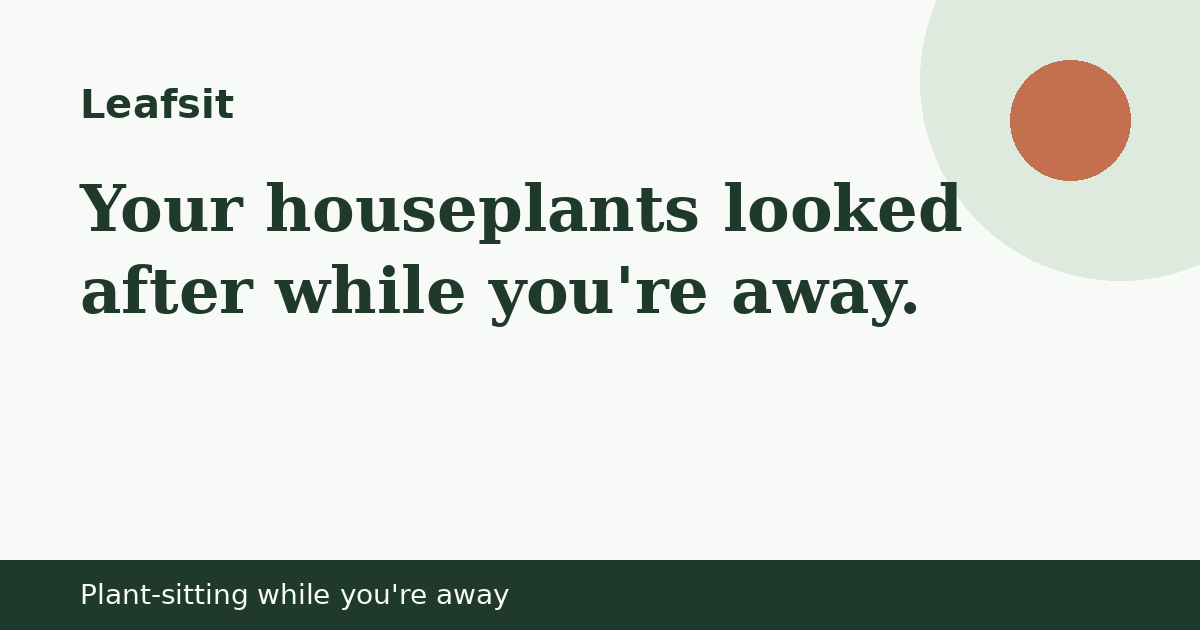
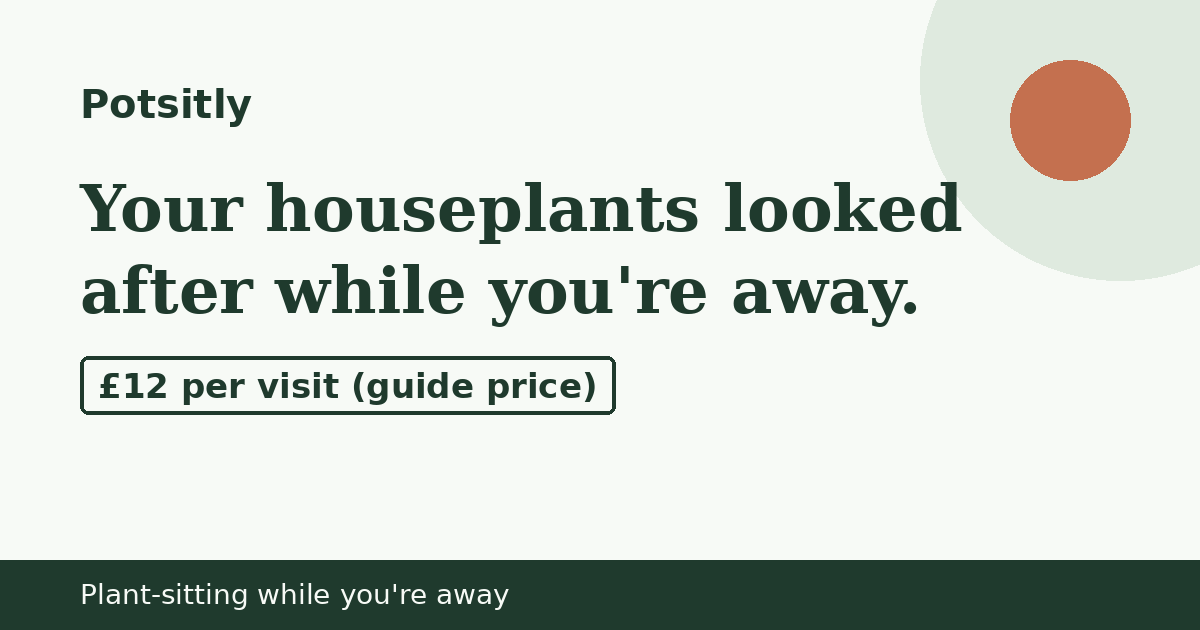
Publish site 2026-10-21 08:28 BST

Changed region(s): [[0.0617, 0.5429, 0.5242, 0.6635], [0.0617, 0.1206, 0.2158, 0.2111]]

diff --git a/index.html b/index.html
@@ -3,14 +3,14 @@
 <head>
 <meta charset="utf-8">
 <meta name="viewport" content="width=device-width, initial-scale=1">
-<meta http-equiv="Content-Security-Policy" content="default-src 'self'; img-src 'self' data: https://localreplyloop.goatcounter.com; style-src 'self'; script-src 'self'; font-src 'self'; connect-src 'self' https://formsubmit.co; form-action 'self'; base-uri 'self'; object-src 'none'">
+<meta http-equiv="Content-Security-Policy" content="default-src 'self'; img-src 'self' data: https://localreplyloop.goatcounter.com; style-src 'self'; script-src 'self'; font-src 'self'; connect-src 'self'; form-action 'self'; base-uri 'self'; object-src 'none'">
 <meta name="referrer" content="strict-origin-when-cross-origin">
-<title>Leafsit: Your houseplants looked after while you&#x27;re away</title>
+<title>Potsitly: Your houseplants looked after while you&#x27;re away</title>
 <meta name="description" content="Home visits to water and care for your houseplants while you&#x27;re away, with a photo update after each visit.">
 <meta name="theme-color" content="#1F3A2D">
-<meta property="og:type" content="website"><meta property="og:title" content="Leafsit: Your houseplants looked after while you&#x27;re away"><meta property="og:description" content="Home visits to water and care for your houseplants while you&#x27;re away, with a photo update after each visit.">
+<meta property="og:type" content="website"><meta property="og:title" content="Potsitly: Your houseplants looked after while you&#x27;re away"><meta property="og:description" content="Home visits to water and care for your houseplants while you&#x27;re away, with a photo update after each visit.">
 <meta property="og:image" content="https://evanturner557-del.github.io/leafsit/assets/og.png"><meta property="og:image:width" content="1200"><meta property="og:image:height" content="630">
-<meta property="og:image:alt" content="Leafsit: Your houseplants looked after while you&#x27;re away."><meta property="og:site_name" content="Leafsit"><meta property="og:locale" content="en_GB">
+<meta property="og:image:alt" content="Potsitly: Your houseplants looked after while you&#x27;re away."><meta property="og:site_name" content="Potsitly"><meta property="og:locale" content="en_GB">
 <meta property="og:url" content="https://evanturner557-del.github.io/leafsit/"><meta name="twitter:card" content="summary_large_image">
 <link rel="canonical" href="https://evanturner557-del.github.io/leafsit/">
 <link rel="icon" href="assets/favicon.svg" type="image/svg+xml">
@@ -21,22 +21,15 @@
 </head>
 <body>
 <a class="skip" href="#main">Skip to content</a>
-<header><div class="wrap top"><a class="brand" href="./"><svg viewBox="0 0 64 64" aria-hidden="true" width="34" height="34"><circle cx="32" cy="32" r="32" fill="#1F3A2D"/><text x="32" y="43" text-anchor="middle" font-family="Georgia, serif" font-weight="700" font-size="30" fill="#F7FAF6">L</text><circle cx="50" cy="50" r="6" fill="#C4704F"/></svg>Leafsit</a><nav aria-label="Primary"><a href="#how">How it works</a><a href="#faq">Questions</a><a href="#contact">Contact</a></nav></div></header><section class="hero"><div class="wrap"><div class="inner"><div><span class="draft">Draft: not yet available. Enquiries welcome.</span><br><span class="eyebrow">Service · draft offer · Plant-sitting while you&#x27;re away</span><h1>Your houseplants looked after while you&#x27;re away.</h1><p class="lede">Leafsit visits to water, mist and check your plants while you&#x27;re on holiday, following your care notes, and sends a photo after each visit. Like pet-sitting, but for plants.</p><div class="ctas"><a class="btn" href="#contact" data-cta="hero">Make an enquiry</a><a class="btn ghost" href="#faq" data-cta="hero-secondary">Questions</a></div></div><div class="art"><svg viewBox="0 0 400 400" role="img" aria-label="Decorative pattern" class="motif" preserveAspectRatio="xMidYMid slice"><rect x="0" y="40" width="30" height="260" rx="15" fill="#F7FAF6"/><rect x="46" y="100" width="30" height="280" rx="15" fill="#1F3A2D"/><rect x="92" y="70" width="30" height="240" rx="15" fill="#C4704F"/><rect x="138" y="40" width="30" height="220" rx="15" fill="#1F3A2D"/><rect x="184" y="40" width="30" height="260" rx="15" fill="#F7FAF6"/><rect x="230" y="40" width="30" height="220" rx="15" fill="#1F3A2D"/><rect x="276" y="100" width="30" height="260" rx="15" fill="#C4704F"/><rect x="322" y="130" width="30" height="220" rx="15" fill="#1F3A2D"/><rect x="368" y="70" width="30" height="260" rx="15" fill="#F7FAF6"/></svg></div></div></div></section>
+<header><div class="wrap top"><a class="brand" href="./"><svg viewBox="0 0 64 64" aria-hidden="true" width="34" height="34"><circle cx="32" cy="32" r="32" fill="#1F3A2D"/><text x="32" y="43" text-anchor="middle" font-family="Georgia, serif" font-weight="700" font-size="30" fill="#F7FAF6">P</text><circle cx="50" cy="50" r="6" fill="#C4704F"/></svg>Potsitly</a><nav aria-label="Primary"><a href="#how">How it works</a><a href="#faq">Questions</a><a href="#contact">Contact</a></nav></div></header>
 <main id="main">
+<section class="hero"><div class="wrap"><div class="inner"><div><span class="draft">Draft: not yet available. Enquiries welcome.</span><br><span class="eyebrow">Service · draft offer · Plant-sitting while you&#x27;re away</span><h1>Your houseplants looked after while you&#x27;re away.</h1><p class="lede">Potsitly visits to water, mist and check your plants while you&#x27;re on holiday, following your care notes, and sends a photo after each visit. Like pet-sitting, but for plants.</p><div class="ctas"><a class="btn" href="#contact" data-cta="hero">Make an enquiry</a><a class="btn ghost" href="#faq" data-cta="hero-secondary">Questions</a></div></div><div class="art"><svg viewBox="0 0 400 400" aria-hidden="true" focusable="false" class="motif"><path d="M60 260 h110 l-14 100 h-82z" fill="#C4704F"/><path d="M115 260 c-60 -40 -40 -110 0 -150 c40 40 60 110 0 150z" fill="#1F3A2D"/><path d="M115 250 c30 -50 70 -40 80 -40 c-10 30 -40 60 -80 40z" fill="#F7FAF6"/><path d="M210 280 h80 l10 80 h-100z" fill="#1F3A2D"/><path d="M290 300 l50 -30" fill="none" stroke="#1F3A2D" stroke-width="12" stroke-linecap="round" stroke-linejoin="round"/><path d="M220 290 c-30 -10 -30 -50 0 -50" fill="none" stroke="#1F3A2D" stroke-width="8" stroke-linecap="round" stroke-linejoin="round"/><rect x="250" y="170" width="120" height="90" rx="12" fill="#F7FAF6"/><rect x="285" y="150" width="50" height="26" rx="8" fill="#F7FAF6"/><rect x="250" y="205" width="120" height="10" fill="#1F3A2D"/></svg></div></div></div></section>
 <section class="tint" id="how"><div class="wrap"><span class="eyebrow">How it works</span><h2>Home visits to water and care for your houseplants while you&#x27;re away, with a photo update after each visit.</h2><div class="steps"><div class="step"><h3>Send your dates</h3><p>And roughly how many plants.</p></div><div class="step"><h3>Care notes</h3><p>Tell us which plants need what.</p></div><div class="step"><h3>Photo after each visit</h3><p>So you know they&#x27;re fine.</p></div></div></div></section>
 <section><div class="wrap"><span class="eyebrow">Who it is for</span><h2>For houseplant owners going on holiday.</h2><div class="points"><div class="point"><h3>Follows your notes</h3><p>Your watering routine, not ours.</p></div><div class="point"><h3>Photos each visit</h3><p>You can see how they&#x27;re doing.</p></div><div class="point"><h3>Key handling agreed</h3><p>We agree key drop-off and return with you.</p></div></div></div></section>
 <section class="tint" id="price"><div class="wrap"><span class="eyebrow">Planned price</span><div class="pricebox"><p class="price">£12 per visit (guide price)</p><p>This is a draft offer and is not taking orders yet. Nothing can be bought on this website.</p></div></div></section>
-<section id="faq"><div class="wrap"><span class="eyebrow">Questions</span><h2>Common questions</h2><details><summary>How often do you visit?</summary><p>Usually every three or four days. You choose.</p></details><details><summary>Do you treat pests?</summary><p>We&#x27;ll tell you if we spot any. We don&#x27;t apply treatments without asking.</p></details><details><summary>Is this available now?</summary><p>Enquire with your dates and postcode and we&#x27;ll confirm.</p></details><p class="fine" style="margin-top:18px">Leafsit cares for houseplants. We can&#x27;t guarantee the health of plants that were already unwell.</p></div></section>
-<section class="tint" id="contact"><div class="wrap contact-grid"><div><span class="eyebrow">Contact</span><h2>Make an enquiry</h2><p>Leafsit is new and run by one person. Every message is read and answered by email, usually within two working days.</p><p>Email: <a href="mailto:localreply+leafsit@agentmail.to">localreply+leafsit@agentmail.to</a></p></div><form class="form" data-contact data-formsubmit="localreply+leafsit@agentmail.to" data-email="localreply+leafsit@agentmail.to" data-subject="Leafsit enquiry" novalidate>
-<div><label for="f-name">Your name</label><input id="f-name" name="name" autocomplete="name" required></div>
-<div><label for="f-email">Email</label><input id="f-email" name="email" type="email" autocomplete="email" required></div>
-<div><label for="f-postcode">Postcode or town</label><input id="f-postcode" name="postcode" autocomplete="postal-code"></div><div><label for="f-plan">About</label><select id="f-plan" name="plan"><option value="Holiday visits">Holiday visits</option><option value="Regular care">Regular care</option><option value="A question">A question</option></select></div>
-<div><label for="f-message">Message</label><textarea id="f-message" name="message"></textarea></div>
-<p class="hint">Your message goes to our inbox through FormSubmit (formsubmit.co), our form-delivery provider. If that fails, your own email app opens instead. See our <a href="privacy.html">privacy notice</a>.</p>
-<button class="btn" type="submit">Make an enquiry</button>
-<p class="form-status" role="status" aria-live="polite"></p>
-</form></div></section>
-</main><footer><div class="wrap"><p>Operated by a UK sole trader trading as Leafsit. Contact: localreply+leafsit@agentmail.to. Postal address available on written request.</p>
+<section id="faq"><div class="wrap"><span class="eyebrow">Questions</span><h2>Common questions</h2><details><summary>How often do you visit?</summary><p>Usually every three or four days. You choose.</p></details><details><summary>Do you treat pests?</summary><p>We&#x27;ll tell you if we spot any. We don&#x27;t apply treatments without asking.</p></details><details><summary>Is this available now?</summary><p>Enquire with your dates and postcode. Nothing is confirmed yet.</p></details><p class="fine" style="margin-top:18px">Potsitly cares for houseplants. We can&#x27;t guarantee the health of plants that were already unwell.</p></div></section>
+<section class="tint" id="contact"><div class="wrap contact-grid"><div><span class="eyebrow">Contact</span><h2>Make an enquiry</h2><p>Potsitly is new and run by one person. Messages go to our inbox. We can’t promise a reply or a timeframe yet.</p><p>Email: <a href="mailto:localreply+leafsit@agentmail.to">localreply+leafsit@agentmail.to</a></p></div><div class="form contact-mail"><p><a class="btn" href="mailto:localreply+leafsit@agentmail.to?subject=%5BPotsitly%5D%20Enquiry" data-cta="enquire">Email Potsitly</a></p><p class="hint">This opens your own email app. Nothing is sent through this website. See our <a href="privacy.html">privacy notice</a>.</p></div></div></section>
+</main><footer><div class="wrap"><p>Operated by a UK sole trader trading as Potsitly. Contact: localreply+leafsit@agentmail.to. Postal address available on written request.</p>
 <p><a href="privacy.html">Privacy</a><a href="terms.html">Terms</a><a href="./#contact">Contact</a></p>
-<p class="fine">Leafsit cares for houseplants. We can&#x27;t guarantee the health of plants that were already unwell.</p></div></footer>
+<p class="fine">Potsitly cares for houseplants. We can&#x27;t guarantee the health of plants that were already unwell.</p></div></footer>
 </body></html>

diff --git a/privacy.html b/privacy.html
@@ -3,14 +3,14 @@
 <head>
 <meta charset="utf-8">
 <meta name="viewport" content="width=device-width, initial-scale=1">
-<meta http-equiv="Content-Security-Policy" content="default-src 'self'; img-src 'self' data: https://localreplyloop.goatcounter.com; style-src 'self'; script-src 'self'; font-src 'self'; connect-src 'self' https://formsubmit.co; form-action 'self'; base-uri 'self'; object-src 'none'">
+<meta http-equiv="Content-Security-Policy" content="default-src 'self'; img-src 'self' data: https://localreplyloop.goatcounter.com; style-src 'self'; script-src 'self'; font-src 'self'; connect-src 'self'; form-action 'self'; base-uri 'self'; object-src 'none'">
 <meta name="referrer" content="strict-origin-when-cross-origin">
-<title>Privacy notice | Leafsit</title>
-<meta name="description" content="Privacy notice for Leafsit.">
+<title>Privacy notice | Potsitly</title>
+<meta name="description" content="Privacy notice for Potsitly.">
 <meta name="theme-color" content="#1F3A2D">
-<meta property="og:type" content="website"><meta property="og:title" content="Privacy notice | Leafsit"><meta property="og:description" content="Privacy notice for Leafsit.">
+<meta property="og:type" content="website"><meta property="og:title" content="Privacy notice | Potsitly"><meta property="og:description" content="Privacy notice for Potsitly.">
 <meta property="og:image" content="https://evanturner557-del.github.io/leafsit/assets/og.png"><meta property="og:image:width" content="1200"><meta property="og:image:height" content="630">
-<meta property="og:image:alt" content="Leafsit: Your houseplants looked after while you&#x27;re away."><meta property="og:site_name" content="Leafsit"><meta property="og:locale" content="en_GB">
+<meta property="og:image:alt" content="Potsitly: Your houseplants looked after while you&#x27;re away."><meta property="og:site_name" content="Potsitly"><meta property="og:locale" content="en_GB">
 <meta property="og:url" content="https://evanturner557-del.github.io/leafsit/privacy.html"><meta name="twitter:card" content="summary_large_image">
 <link rel="canonical" href="https://evanturner557-del.github.io/leafsit/privacy.html">
 <link rel="icon" href="assets/favicon.svg" type="image/svg+xml">
@@ -21,14 +21,14 @@
 </head>
 <body>
 <a class="skip" href="#main">Skip to content</a>
-<header><div class="wrap top"><a class="brand" href="./"><svg viewBox="0 0 64 64" aria-hidden="true" width="34" height="34"><circle cx="32" cy="32" r="32" fill="#1F3A2D"/><text x="32" y="43" text-anchor="middle" font-family="Georgia, serif" font-weight="700" font-size="30" fill="#F7FAF6">L</text><circle cx="50" cy="50" r="6" fill="#C4704F"/></svg>Leafsit</a><nav aria-label="Primary"><a href="#how">How it works</a><a href="#faq">Questions</a><a href="#contact">Contact</a></nav></div></header><main id="main"><section><div class="wrap legal"><h1>Privacy notice</h1><p class="fine">Last updated 19 October 2026</p>
-<p><span>Operated by a UK sole trader trading as Leafsit. Contact: localreply+leafsit@agentmail.to. Postal address available on written request.</span> We are the controller for the personal data described here. For anything in this notice, email <a href="mailto:localreply+leafsit@agentmail.to">localreply+leafsit@agentmail.to</a> with “Leafsit” in the subject line.</p>
-<h2>What we collect</h2><p>If you use the form or email us, we receive your name, email address, anything you write in your message and, if you give it, your postcode or town. We use it only to reply to you and, if you ask for it, to deal with your enquiry.</p>
+<header><div class="wrap top"><a class="brand" href="./"><svg viewBox="0 0 64 64" aria-hidden="true" width="34" height="34"><circle cx="32" cy="32" r="32" fill="#1F3A2D"/><text x="32" y="43" text-anchor="middle" font-family="Georgia, serif" font-weight="700" font-size="30" fill="#F7FAF6">P</text><circle cx="50" cy="50" r="6" fill="#C4704F"/></svg>Potsitly</a><nav aria-label="Primary"><a href="#how">How it works</a><a href="#faq">Questions</a><a href="#contact">Contact</a></nav></div></header><main id="main"><section><div class="wrap legal"><h1>Privacy notice</h1><p class="fine">Last updated 20 October 2026</p>
+<p><span>Operated by a UK sole trader trading as Potsitly. Contact: localreply+leafsit@agentmail.to. Postal address available on written request.</span> We are the controller for the personal data described here. For anything in this notice, email <a href="mailto:localreply+leafsit@agentmail.to">localreply+leafsit@agentmail.to</a> with “Potsitly” in the subject line.</p>
+<h2>What we collect</h2><p>If you email us, we receive your name, email address, anything you write in your message and, if you give it, your postcode or town. We use it only to reply to you and, if you ask for it, to deal with your enquiry.</p>
 <h2>Lawful basis</h2><p>Replying to an enquiry you send us is in our legitimate interests, or steps taken at your request before any agreement (UK GDPR Article 6(1)(f) and 6(1)(b)).</p>
-<h2>Who processes it for us</h2><p>FormSubmit (formsubmit.co) delivers form messages to our inbox. AgentMail (agentmail.to) hosts the inbox. GitHub Pages hosts this website and may log technical data such as IP addresses for security. Some of these providers process data outside the UK under their own safeguards.</p>
+<h2>Who processes it for us</h2><p>AgentMail (agentmail.to) hosts our inbox. GitHub Pages hosts this website and may log technical data such as IP addresses for security. Some of these providers process data outside the UK under their own safeguards.</p>
 <h2>Cookies and analytics</h2><p>We set no cookies. We count page views with GoatCounter, which records the page, referrer and screen size but no cookies and no personal profile. It does not run if your browser sends Do Not Track or Global Privacy Control.</p>
-<h2>How long we keep it</h2><p>We keep enquiry emails for up to 12 months after our last contact, unless you become a customer, in which case we keep records as the law requires.</p>
-<h2>Your rights</h2><p>You can ask for a copy of your data, ask us to correct or delete it, or object to how we use it, by emailing <a href="mailto:localreply+leafsit@agentmail.to">localreply+leafsit@agentmail.to</a>. You can complain to the Information Commissioner's Office (ico.org.uk).</p></div></section></main><footer><div class="wrap"><p>Operated by a UK sole trader trading as Leafsit. Contact: localreply+leafsit@agentmail.to. Postal address available on written request.</p>
+<h2>How long we keep it</h2><p>We delete enquiry and order data 30 days after our last contact or after delivery. We keep only the basic order record that tax law requires.</p>
+<h2>Your rights</h2><p>You can ask for a copy of your data, ask us to correct or delete it, or object to how we use it, by emailing <a href="mailto:localreply+leafsit@agentmail.to">localreply+leafsit@agentmail.to</a>. You can complain to the Information Commissioner's Office (ico.org.uk).</p></div></section></main><footer><div class="wrap"><p>Operated by a UK sole trader trading as Potsitly. Contact: localreply+leafsit@agentmail.to. Postal address available on written request.</p>
 <p><a href="privacy.html">Privacy</a><a href="terms.html">Terms</a><a href="./#contact">Contact</a></p>
-<p class="fine">Leafsit cares for houseplants. We can&#x27;t guarantee the health of plants that were already unwell.</p></div></footer>
+<p class="fine">Potsitly cares for houseplants. We can&#x27;t guarantee the health of plants that were already unwell.</p></div></footer>
 </body></html>

diff --git a/terms.html b/terms.html
@@ -3,14 +3,14 @@
 <head>
 <meta charset="utf-8">
 <meta name="viewport" content="width=device-width, initial-scale=1">
-<meta http-equiv="Content-Security-Policy" content="default-src 'self'; img-src 'self' data: https://localreplyloop.goatcounter.com; style-src 'self'; script-src 'self'; font-src 'self'; connect-src 'self' https://formsubmit.co; form-action 'self'; base-uri 'self'; object-src 'none'">
+<meta http-equiv="Content-Security-Policy" content="default-src 'self'; img-src 'self' data: https://localreplyloop.goatcounter.com; style-src 'self'; script-src 'self'; font-src 'self'; connect-src 'self'; form-action 'self'; base-uri 'self'; object-src 'none'">
 <meta name="referrer" content="strict-origin-when-cross-origin">
-<title>Terms of use | Leafsit</title>
-<meta name="description" content="Terms of use for Leafsit.">
+<title>Terms of use | Potsitly</title>
+<meta name="description" content="Terms of use for Potsitly.">
 <meta name="theme-color" content="#1F3A2D">
-<meta property="og:type" content="website"><meta property="og:title" content="Terms of use | Leafsit"><meta property="og:description" content="Terms of use for Leafsit.">
+<meta property="og:type" content="website"><meta property="og:title" content="Terms of use | Potsitly"><meta property="og:description" content="Terms of use for Potsitly.">
 <meta property="og:image" content="https://evanturner557-del.github.io/leafsit/assets/og.png"><meta property="og:image:width" content="1200"><meta property="og:image:height" content="630">
-<meta property="og:image:alt" content="Leafsit: Your houseplants looked after while you&#x27;re away."><meta property="og:site_name" content="Leafsit"><meta property="og:locale" content="en_GB">
+<meta property="og:image:alt" content="Potsitly: Your houseplants looked after while you&#x27;re away."><meta property="og:site_name" content="Potsitly"><meta property="og:locale" content="en_GB">
 <meta property="og:url" content="https://evanturner557-del.github.io/leafsit/terms.html"><meta name="twitter:card" content="summary_large_image">
 <link rel="canonical" href="https://evanturner557-del.github.io/leafsit/terms.html">
 <link rel="icon" href="assets/favicon.svg" type="image/svg+xml">
@@ -21,13 +21,13 @@
 </head>
 <body>
 <a class="skip" href="#main">Skip to content</a>
-<header><div class="wrap top"><a class="brand" href="./"><svg viewBox="0 0 64 64" aria-hidden="true" width="34" height="34"><circle cx="32" cy="32" r="32" fill="#1F3A2D"/><text x="32" y="43" text-anchor="middle" font-family="Georgia, serif" font-weight="700" font-size="30" fill="#F7FAF6">L</text><circle cx="50" cy="50" r="6" fill="#C4704F"/></svg>Leafsit</a><nav aria-label="Primary"><a href="#how">How it works</a><a href="#faq">Questions</a><a href="#contact">Contact</a></nav></div></header><main id="main"><section><div class="wrap legal"><h1>Terms of use</h1><p class="fine">Last updated 19 October 2026</p>
-<p><span>Operated by a UK sole trader trading as Leafsit. Contact: localreply+leafsit@agentmail.to. Postal address available on written request.</span> Email: <a href="mailto:localreply+leafsit@agentmail.to">localreply+leafsit@agentmail.to</a>.</p>
-<h2>About this website</h2><p>This website describes Leafsit: home visits to water and care for your houseplants while you&#x27;re away, with a photo update after each visit. Nothing can be bought or paid for on this website. Sending an enquiry does not create a contract.</p><p>Anything described as draft or planned is not yet available. Prices shown as planned may change before launch.</p>
+<header><div class="wrap top"><a class="brand" href="./"><svg viewBox="0 0 64 64" aria-hidden="true" width="34" height="34"><circle cx="32" cy="32" r="32" fill="#1F3A2D"/><text x="32" y="43" text-anchor="middle" font-family="Georgia, serif" font-weight="700" font-size="30" fill="#F7FAF6">P</text><circle cx="50" cy="50" r="6" fill="#C4704F"/></svg>Potsitly</a><nav aria-label="Primary"><a href="#how">How it works</a><a href="#faq">Questions</a><a href="#contact">Contact</a></nav></div></header><main id="main"><section><div class="wrap legal"><h1>Terms of use</h1><p class="fine">Last updated 20 October 2026</p>
+<p><span>Operated by a UK sole trader trading as Potsitly. Contact: localreply+leafsit@agentmail.to. Postal address available on written request.</span> Email: <a href="mailto:localreply+leafsit@agentmail.to">localreply+leafsit@agentmail.to</a>.</p>
+<h2>About this website</h2><p>This website describes Potsitly: home visits to water and care for your houseplants while you&#x27;re away, with a photo update after each visit. Nothing can be bought or paid for on this website. Sending an enquiry does not create a contract.</p><p>Anything described as draft or planned is not yet available. Prices shown as planned may change before launch.</p>
 <h2>Prices</h2><p>£12 per visit (guide price). Any work or purchase would be agreed separately by email, with the price and what is included confirmed  in writing first, and your statutory rights as a consumer apply.</p>
-<h2>What we don't do</h2><p>Leafsit cares for houseplants. We can&#x27;t guarantee the health of plants that were already unwell.</p>
+<h2>What we don't do</h2><p>Potsitly cares for houseplants. We can&#x27;t guarantee the health of plants that were already unwell.</p>
 <h2>Liability</h2><p>We take care to keep this website accurate, but it is provided for general information. Nothing here limits liability that cannot be limited by law.</p>
-<h2>Law</h2><p>These terms are governed by the law of England and Wales. You may also be able to bring claims in the courts of the part of the UK where you live.</p></div></section></main><footer><div class="wrap"><p>Operated by a UK sole trader trading as Leafsit. Contact: localreply+leafsit@agentmail.to. Postal address available on written request.</p>
+<h2>Law</h2><p>These terms are governed by the law of England and Wales. You may also be able to bring claims in the courts of the part of the UK where you live.</p></div></section></main><footer><div class="wrap"><p>Operated by a UK sole trader trading as Potsitly. Contact: localreply+leafsit@agentmail.to. Postal address available on written request.</p>
 <p><a href="privacy.html">Privacy</a><a href="terms.html">Terms</a><a href="./#contact">Contact</a></p>
-<p class="fine">Leafsit cares for houseplants. We can&#x27;t guarantee the health of plants that were already unwell.</p></div></footer>
+<p class="fine">Potsitly cares for houseplants. We can&#x27;t guarantee the health of plants that were already unwell.</p></div></footer>
 </body></html>

diff --git a/assets/site.css b/assets/site.css
@@ -1,7 +1,7 @@
 @font-face{font-family:'Source Serif 4';font-weight:700;font-style:normal;font-display:swap;src:url(fonts/source-serif-4-latin-700-normal.woff2) format('woff2')}
 @font-face{font-family:'IBM Plex Sans';font-weight:400;font-style:normal;font-display:swap;src:url(fonts/ibm-plex-sans-latin-400-normal.woff2) format('woff2')}
 @font-face{font-family:'IBM Plex Sans';font-weight:600;font-style:normal;font-display:swap;src:url(fonts/ibm-plex-sans-latin-600-normal.woff2) format('woff2')}
-:root{--ink:#1F3A2D;--paper:#F7FAF6;--acc:#C4704F;--acc-text:#954E32;--on-acc:#111111;--soft:#DFEADF;--on-ink:#F7FAF6;--r:4px;--br:4px;--head:'Source Serif 4', Georgia, serif;--body:'IBM Plex Sans', system-ui, sans-serif}
+:root{--ink:#1F3A2D;--paper:#F7FAF6;--acc:#C4704F;--acc-text:#8C4A30;--on-acc:#111111;--acc-btn:#C4704F;--soft:#DFEADF;--on-ink:#F7FAF6;--r:4px;--br:4px;--head:'Source Serif 4', Georgia, serif;--body:'IBM Plex Sans', system-ui, sans-serif}
 *,*::before,*::after{box-sizing:border-box}html{scroll-behavior:smooth}@media (prefers-reduced-motion:reduce){html{scroll-behavior:auto}*{transition:none!important}}
 body{margin:0;font-family:var(--body);color:var(--ink);background:var(--paper);line-height:1.6;font-size:17px;-webkit-font-smoothing:antialiased}
 h1,h2,h3{font-family:var(--head);line-height:1.15;margin:0 0 .5em;letter-spacing:-.01em}h1{font-size:clamp(2.1rem,5vw,3.6rem)}h2{font-size:clamp(1.5rem,3vw,2.2rem)}h3{font-size:1.15rem}
@@ -10,11 +10,11 @@ p{margin:0 0 1em}a{color:var(--ink);text-decoration-color:var(--acc);text-underl
 :focus-visible{outline:3px solid var(--acc);outline-offset:2px}
 .top{display:flex;align-items:center;justify-content:space-between;padding:18px 0;gap:16px}.brand{display:flex;align-items:center;gap:10px;font-family:var(--head);font-weight:700;font-size:1.25rem;text-decoration:none}
 .top nav a{margin-left:18px;font-size:.95rem;text-decoration:none}.top nav a:hover{text-decoration:underline}
-.btn{display:inline-block;background:var(--acc);color:var(--on-acc);padding:13px 22px;border-radius:var(--br);font-weight:600;text-decoration:none;border:2px solid var(--acc);cursor:pointer;font:inherit;font-weight:600}
-.btn:hover{filter:brightness(.94)}.btn.ghost{background:transparent;color:var(--ink);border-color:var(--ink)}
+.btn{display:inline-block;background:var(--acc-btn);color:var(--on-acc);padding:13px 22px;border-radius:var(--br);font-weight:600;text-decoration:none;border:2px solid var(--acc-btn);cursor:pointer;font:inherit;font-weight:600}
+.btn:hover{filter:none;box-shadow:inset 0 0 0 2px currentColor}.btn.ghost{background:transparent;color:var(--ink);border-color:var(--ink)}
 .eyebrow{display:inline-block;font-size:.8rem;letter-spacing:.12em;text-transform:uppercase;font-weight:600;color:var(--acc-text);margin-bottom:12px}
 .hero{padding:48px 0 64px}.hero .lede{font-size:1.15rem;max-width:40em}.ctas{display:flex;gap:12px;flex-wrap:wrap;margin-top:22px}
-.motif{width:100%;height:auto;max-width:420px;display:block}
+.motif{width:100%;height:auto;max-width:420px;display:block}.art{margin:0}
 .draft{display:inline-block;background:var(--soft);border:1px dashed var(--ink);padding:3px 10px;border-radius:999px;font-size:.82rem;font-weight:600;margin-bottom:14px}
 section{padding:56px 0}.tint{background:var(--soft)}
 .steps{display:grid;grid-template-columns:repeat(auto-fit,minmax(220px,1fr));gap:22px;counter-reset:s}
@@ -25,8 +25,8 @@ section{padding:56px 0}.tint{background:var(--soft)}
 details{border-bottom:1px solid color-mix(in srgb,var(--ink) 18%,transparent);padding:14px 0}summary{cursor:pointer;font-weight:600}details p{margin-top:10px}
 .form{display:grid;gap:14px;max-width:620px}.form label{font-weight:600;font-size:.95rem;display:block;margin-bottom:4px}
 .form input,.form textarea,.form select{width:100%;padding:12px;border:1.5px solid color-mix(in srgb,var(--ink) 40%,transparent);border-radius:calc(var(--r)/2);font:inherit;background:#fff;color:#111}
-.form textarea{min-height:120px}.hint,.fine{font-size:.88rem;opacity:.85}.form-status{font-weight:600}
-.contact-grid{display:grid;grid-template-columns:1fr 1.2fr;gap:40px}@media(max-width:800px){.contact-grid{grid-template-columns:1fr}.top nav{display:none}}
+.form textarea{min-height:120px}.hint,.fine{font-size:.88rem}.form-status{font-weight:600}
+.contact-grid{display:grid;grid-template-columns:1fr 1.2fr;gap:40px}@media(max-width:800px){.contact-grid{grid-template-columns:1fr}.top nav a:not([href="#contact"]){display:none}.top nav a{margin-left:0;padding:10px 0;font-weight:600}}
 footer{padding:36px 0 48px;font-size:.9rem;border-top:1px solid color-mix(in srgb,var(--ink) 15%,transparent)}footer a{margin-right:14px}
 .tool{background:var(--paper);border:2px solid var(--ink);border-radius:var(--r);padding:26px;max-width:640px}.tool .row{display:grid;grid-template-columns:1fr 140px;gap:12px;align-items:center;margin-bottom:10px}
 .tool input[type=number]{padding:10px;border:1.5px solid var(--ink);border-radius:8px;font:inherit;width:100%}.result{margin-top:16px;padding:16px;background:var(--soft);border-radius:calc(var(--r)/2);min-height:3em}

diff --git a/404.html b/404.html
@@ -3,14 +3,14 @@
 <head>
 <meta charset="utf-8">
 <meta name="viewport" content="width=device-width, initial-scale=1">
-<meta http-equiv="Content-Security-Policy" content="default-src 'self'; img-src 'self' data: https://localreplyloop.goatcounter.com; style-src 'self'; script-src 'self'; font-src 'self'; connect-src 'self' https://formsubmit.co; form-action 'self'; base-uri 'self'; object-src 'none'">
+<meta http-equiv="Content-Security-Policy" content="default-src 'self'; img-src 'self' data: https://localreplyloop.goatcounter.com; style-src 'self'; script-src 'self'; font-src 'self'; connect-src 'self'; form-action 'self'; base-uri 'self'; object-src 'none'">
 <meta name="referrer" content="strict-origin-when-cross-origin">
-<title>Page not found | Leafsit</title>
-<meta name="description" content="Page not found for Leafsit.">
+<title>Page not found | Potsitly</title>
+<meta name="description" content="Page not found for Potsitly.">
 <meta name="theme-color" content="#1F3A2D">
-<meta property="og:type" content="website"><meta property="og:title" content="Page not found | Leafsit"><meta property="og:description" content="Page not found for Leafsit.">
+<meta property="og:type" content="website"><meta property="og:title" content="Page not found | Potsitly"><meta property="og:description" content="Page not found for Potsitly.">
 <meta property="og:image" content="https://evanturner557-del.github.io/leafsit/assets/og.png"><meta property="og:image:width" content="1200"><meta property="og:image:height" content="630">
-<meta property="og:image:alt" content="Leafsit: Your houseplants looked after while you&#x27;re away."><meta property="og:site_name" content="Leafsit"><meta property="og:locale" content="en_GB">
+<meta property="og:image:alt" content="Potsitly: Your houseplants looked after while you&#x27;re away."><meta property="og:site_name" content="Potsitly"><meta property="og:locale" content="en_GB">
 <meta property="og:url" content="https://evanturner557-del.github.io/leafsit/404.html"><meta name="twitter:card" content="summary_large_image">
 <link rel="canonical" href="https://evanturner557-del.github.io/leafsit/404.html">
 <link rel="icon" href="assets/favicon.svg" type="image/svg+xml">
@@ -21,7 +21,7 @@
 </head>
 <body>
 <a class="skip" href="#main">Skip to content</a>
-<header><div class="wrap top"><a class="brand" href="./"><svg viewBox="0 0 64 64" aria-hidden="true" width="34" height="34"><circle cx="32" cy="32" r="32" fill="#1F3A2D"/><text x="32" y="43" text-anchor="middle" font-family="Georgia, serif" font-weight="700" font-size="30" fill="#F7FAF6">L</text><circle cx="50" cy="50" r="6" fill="#C4704F"/></svg>Leafsit</a><nav aria-label="Primary"><a href="#how">How it works</a><a href="#faq">Questions</a><a href="#contact">Contact</a></nav></div></header><main id="main"><section><div class="wrap legal"><h1>Page not found</h1><p>That page doesn't exist. <a href="./">Go to the Leafsit home page</a>.</p></div></section></main><footer><div class="wrap"><p>Operated by a UK sole trader trading as Leafsit. Contact: localreply+leafsit@agentmail.to. Postal address available on written request.</p>
+<header><div class="wrap top"><a class="brand" href="./"><svg viewBox="0 0 64 64" aria-hidden="true" width="34" height="34"><circle cx="32" cy="32" r="32" fill="#1F3A2D"/><text x="32" y="43" text-anchor="middle" font-family="Georgia, serif" font-weight="700" font-size="30" fill="#F7FAF6">P</text><circle cx="50" cy="50" r="6" fill="#C4704F"/></svg>Potsitly</a><nav aria-label="Primary"><a href="#how">How it works</a><a href="#faq">Questions</a><a href="#contact">Contact</a></nav></div></header><main id="main"><section><div class="wrap legal"><h1>Page not found</h1><p>That page doesn't exist. <a href="./">Go to the Potsitly home page</a>.</p></div></section></main><footer><div class="wrap"><p>Operated by a UK sole trader trading as Potsitly. Contact: localreply+leafsit@agentmail.to. Postal address available on written request.</p>
 <p><a href="privacy.html">Privacy</a><a href="terms.html">Terms</a><a href="./#contact">Contact</a></p>
-<p class="fine">Leafsit cares for houseplants. We can&#x27;t guarantee the health of plants that were already unwell.</p></div></footer>
+<p class="fine">Potsitly cares for houseplants. We can&#x27;t guarantee the health of plants that were already unwell.</p></div></footer>
 </body></html>

diff --git a/_shared/kit.js b/_shared/kit.js
@@ -69,24 +69,8 @@
     form.addEventListener("submit", function (e) {
       e.preventDefault();
       if (!form.reportValidity()) return;
-      // 2026-10-14: if data-formsubmit is set, deliver via FormSubmit.co straight to the brand inbox; mailto stays as fallback.
-      var fsTok = form.getAttribute("data-formsubmit");
-      if (fsTok && !form.__fsFallback && window.fetch) {
-        var fd = new FormData(form), payload = {}, st = form.querySelector("[role=status]");
-        fd.forEach(function (v, k) { if (k !== "consent") payload[k] = String(v); });
-        payload._subject = (form.getAttribute("data-subject") || "Enquiry") + (payload.business ? " — " + payload.business : "");
-        if (payload.email) payload._replyto = payload.email;
-        payload._captcha = "false"; payload._template = "table";
-        fetch("https://formsubmit.co/ajax/" + fsTok, { method: "POST", headers: { "Content-Type": "application/json", "Accept": "application/json" }, body: JSON.stringify(payload) })
-          .then(function (r) { return r.json(); })
-          .then(function (j) {
-            if (String(j.success) !== "true") throw new Error("fs");
-            if (st) { st.textContent = "Thanks" + (payload.name ? ", " + payload.name.trim().split(" ")[0] : "") + " — your message has been sent. We reply by email."; st.classList.add("is-visible"); }
-            track("contact_sent", { plan: payload.plan || null }); form.reset();
-          })
-          .catch(function () { form.__fsFallback = true; if (st) { st.textContent = "Sending didn't work — opening your email app instead."; st.classList.add("is-visible"); } form.requestSubmit ? form.requestSubmit() : form.dispatchEvent(new Event("submit", { cancelable: true })); });
-        return;
-      }
+      // The form only composes an email
+      // in the visitor's own mail app; nothing is sent through any third-party form processor.
       var to = form.getAttribute("data-email") || cfg.contactEmail;
       var data = new FormData(form);
       var name = (data.get("name") || "").toString().trim();

diff --git a/_shared/kit.css b/_shared/kit.css
@@ -73,6 +73,7 @@ p { margin: 0; }
 .mobile-nav.is-open { display: block; }
 .mobile-nav a { display: flex; align-items: center; min-height: 52px; padding: 0 1.25rem; color: var(--text); text-decoration: none; font-weight: 500; border-bottom: 1px solid var(--line); }
 .mobile-nav .btn { margin: 1rem 1.25rem 1.25rem; display: flex; }
+.mobile-nav .btn--primary, .mobile-nav .btn--primary:hover { color: #fff; }
 @media (min-width: 60rem) {
   .nav { display: flex; }
   .site-header .header-cta { display: inline-flex; margin-left: .75rem; }
@@ -329,3 +330,8 @@ html[data-paused="true"] [data-cta="checkout"] { pointer-events: none; opacity: 
 @media (min-width: 60rem) { .pricing.pricing--single { grid-template-columns: 1fr; } }
 .tier-more { max-width: 64rem; margin: 1.25rem auto 0; text-align: center; color: var(--muted); font-size: .9375rem; line-height: 1.6; }
 .tier-more a { font-weight: 600; white-space: nowrap; }
+
+.site-header .header-link { display: inline-flex; color: var(--ink); font-weight: 600; text-decoration: underline; text-underline-offset: .2em; min-height: 44px; align-items: center; padding: 0 .25rem; }
+@media (max-width: 59.99rem) { .site-header .header-link { display: none; } }
+.btn-row .text-link { display: inline-flex; align-items: center; min-height: 48px; padding: 0 .25rem; color: var(--ink); font-weight: 600; text-decoration: underline; text-underline-offset: .2em; }
+.btn-row .text-link:hover, .site-header .header-link:hover { color: var(--accent-strong); }

diff --git a/assets/config.js b/assets/config.js
@@ -1,5 +1,5 @@
 window.SITE_CONFIG = {
-  "brand": "Leafsit",
+  "brand": "Potsitly",
   "slug": "leafsit",
   "checkoutMode": "none",
   "checkoutUrl": null,
